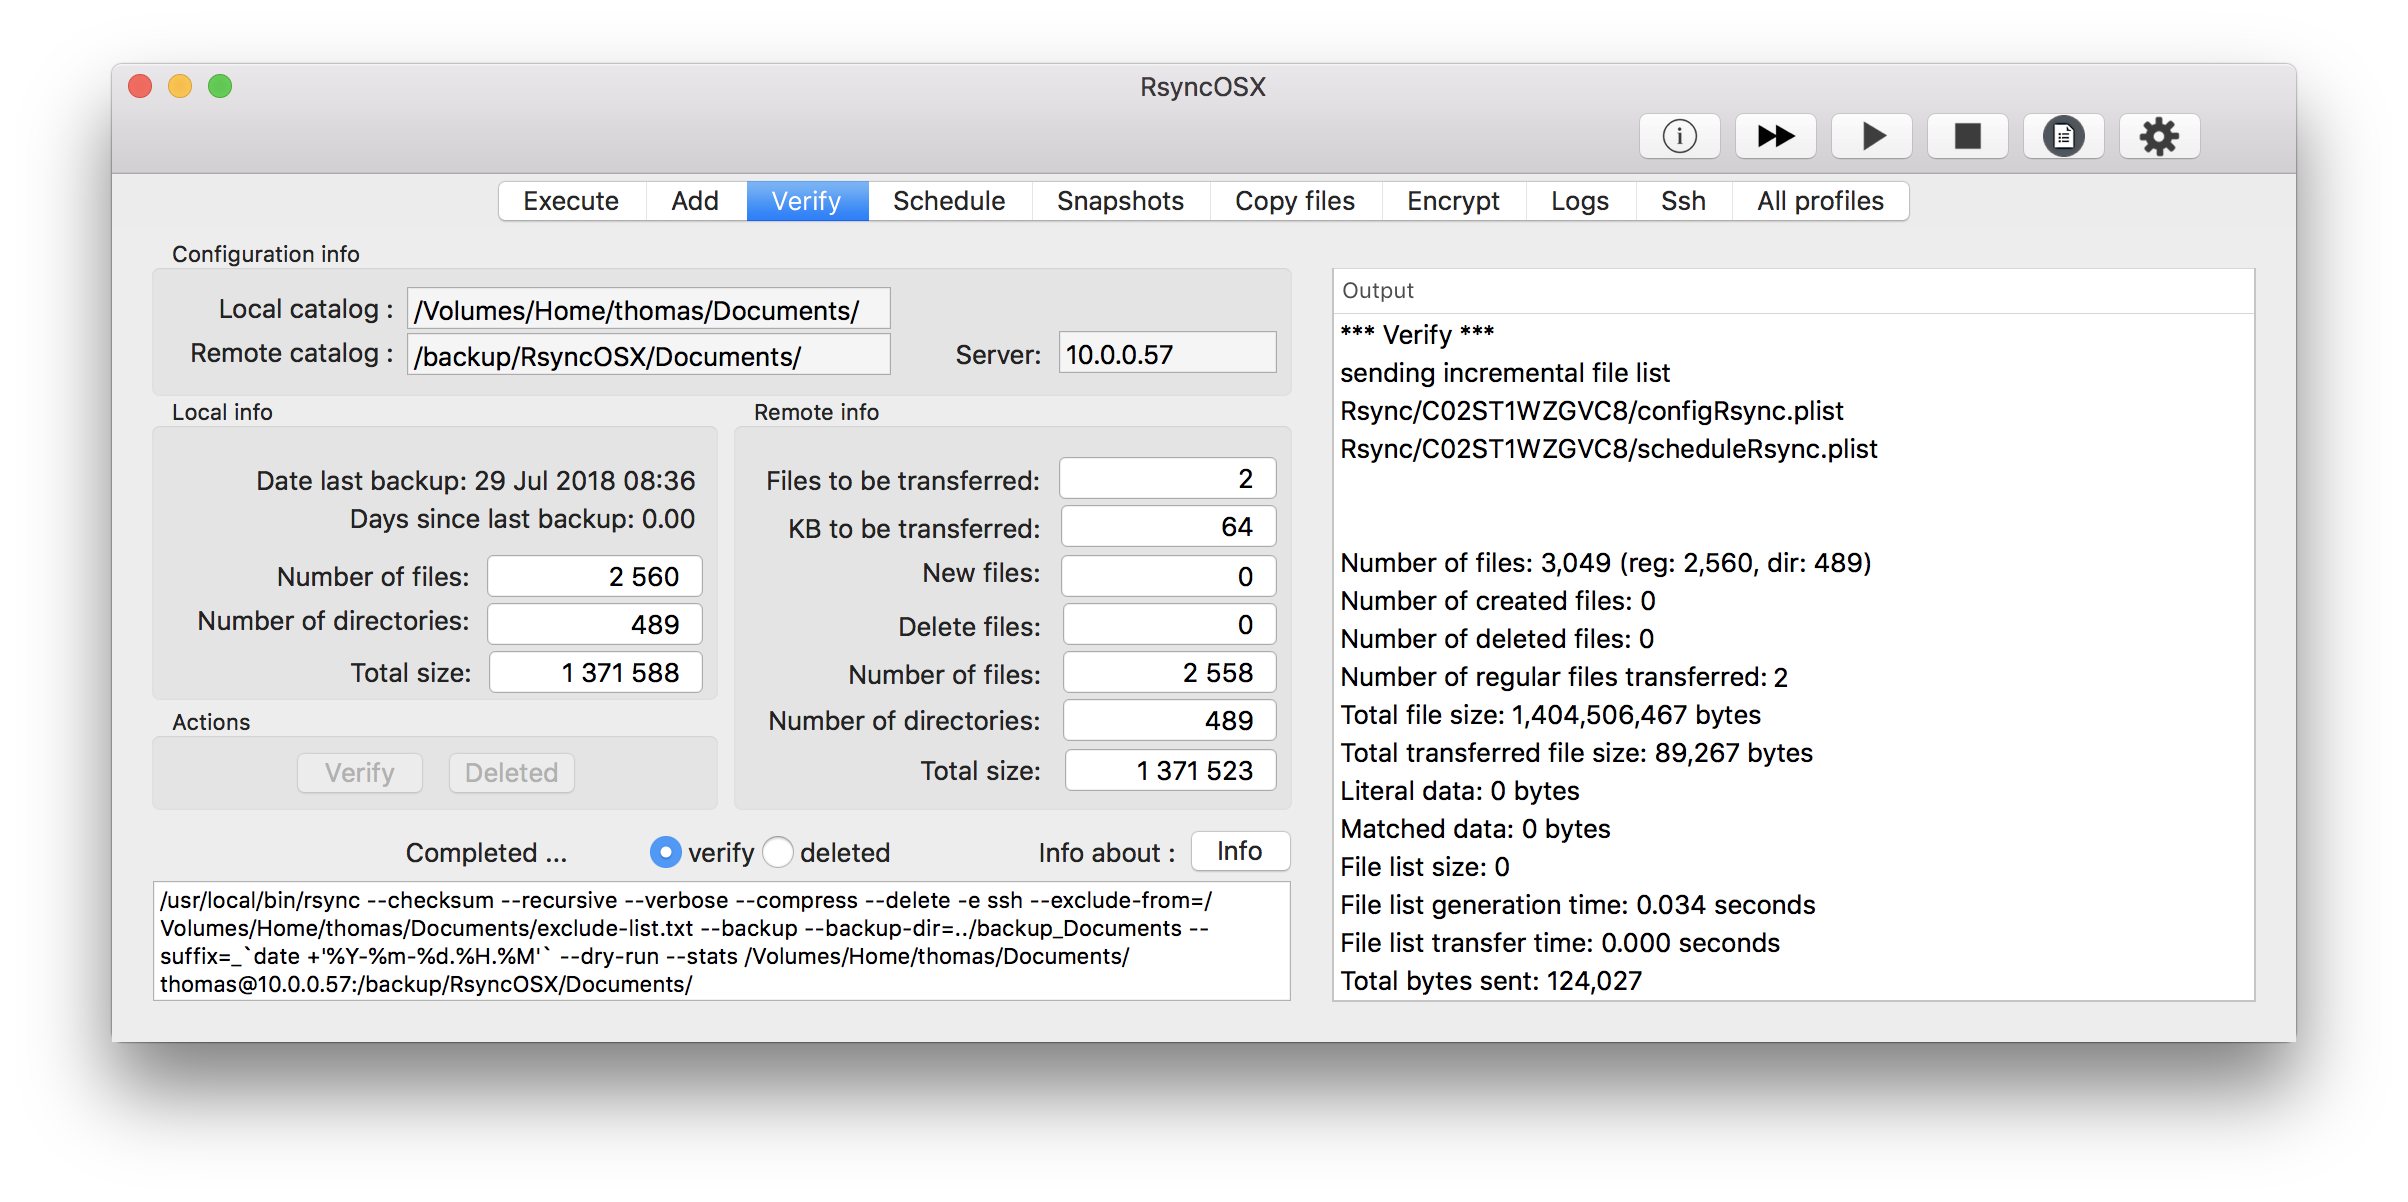
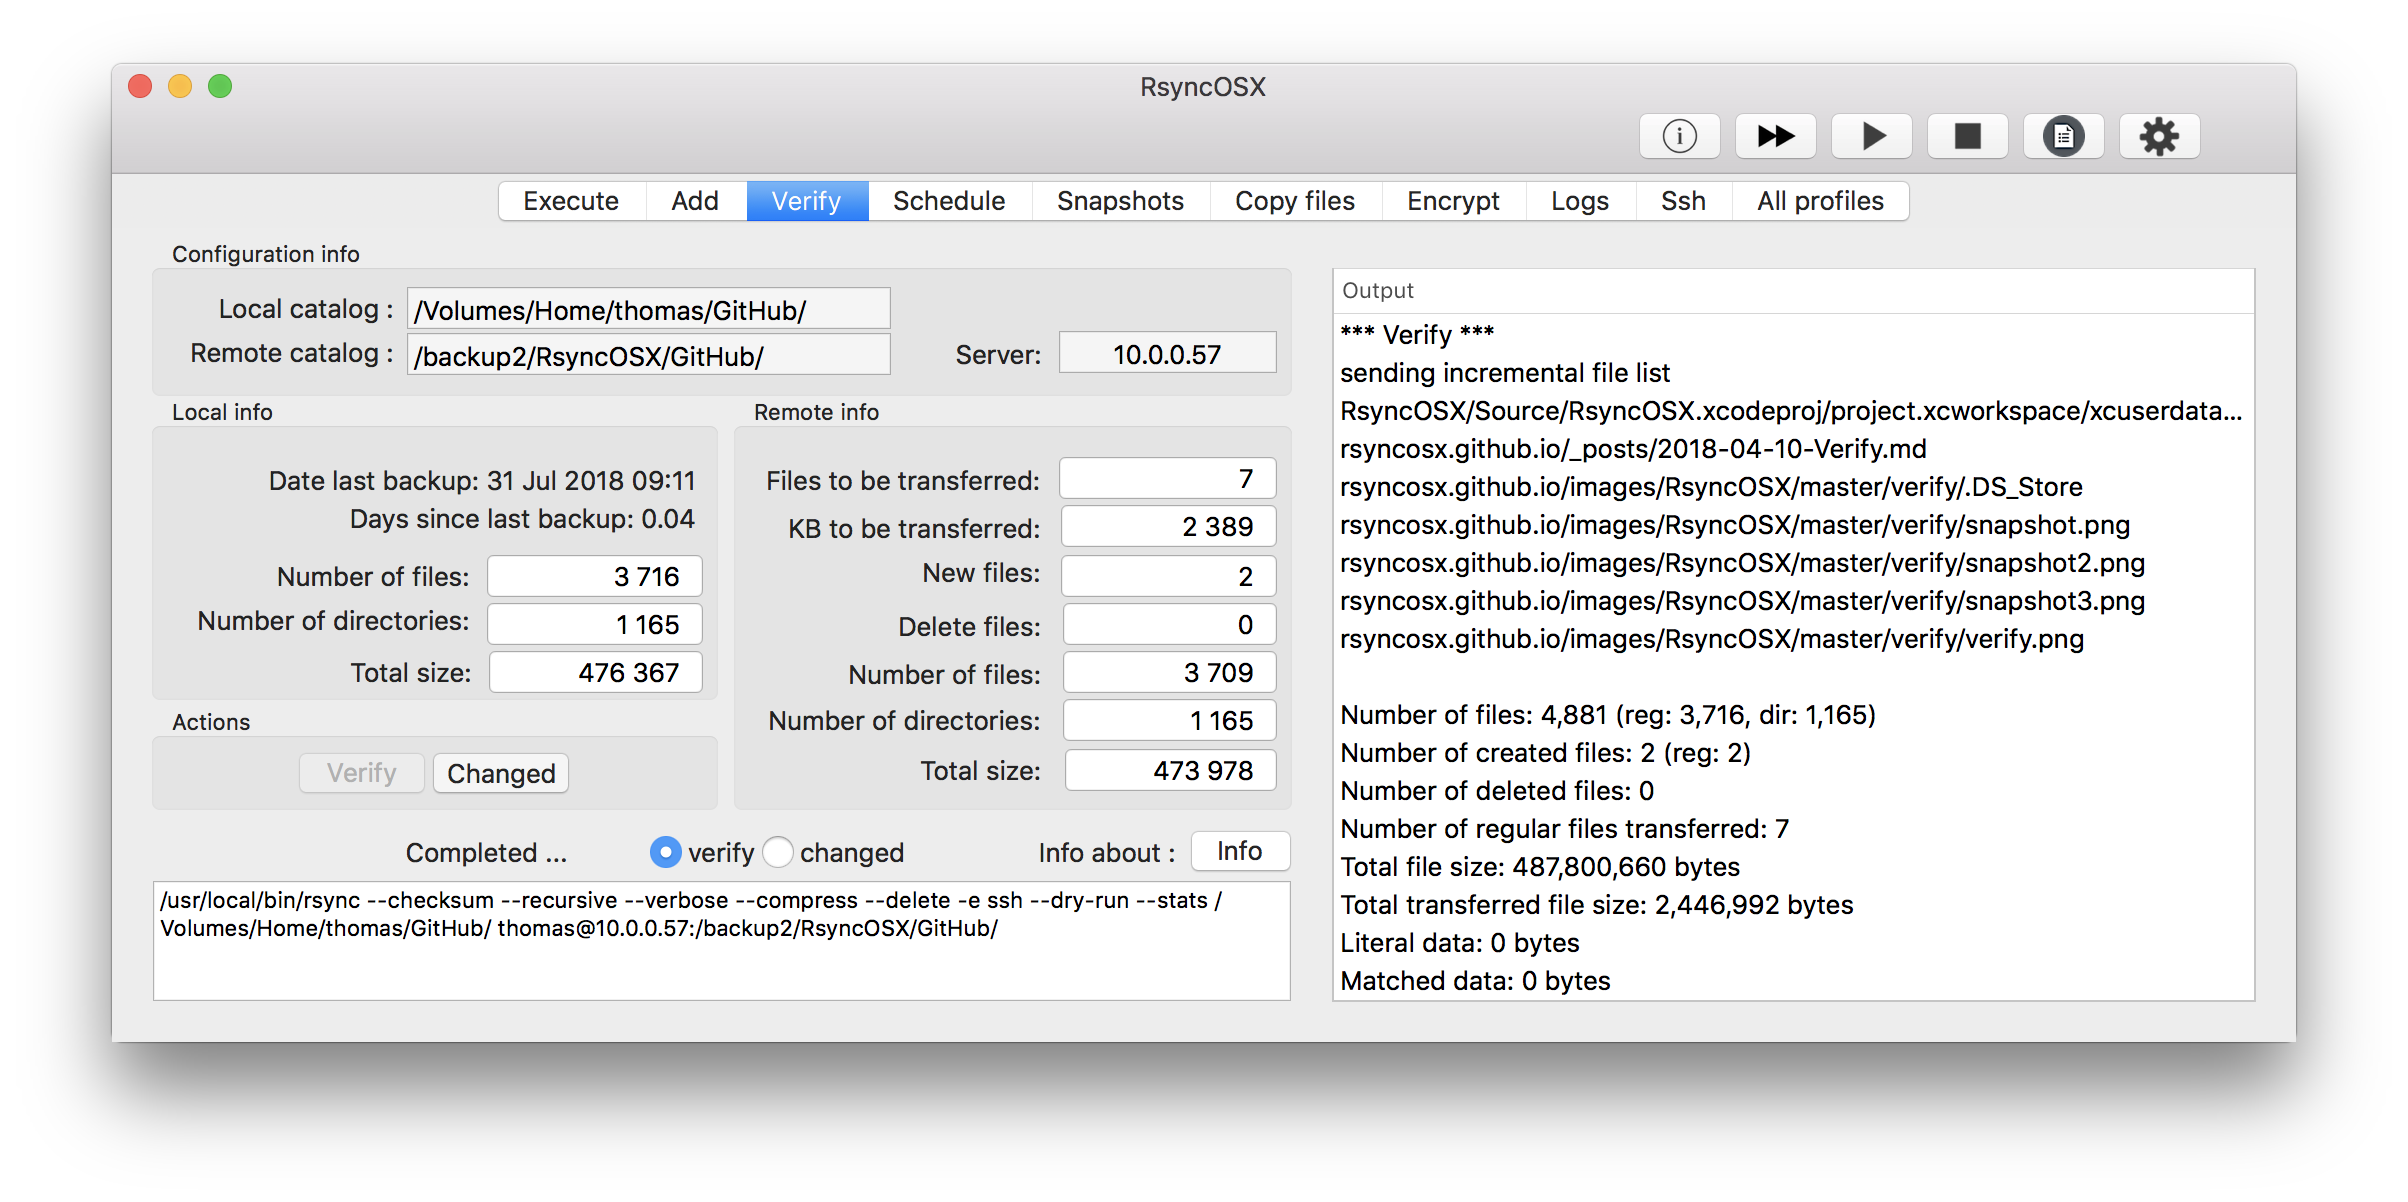
updates

diff --git a/_posts/2018-04-10-Verify.md b/_posts/2018-04-10-Verify.md
@@ -19,16 +19,23 @@ result self and take required actions.
 
 The `Verify` button kicks off the `--checksum` process. The output is appended and refreshed every time rsync output a new line.
 
-The `Deleted` button kicks of a `--dry-run` restore task. Changed and deleted files in source compared to last synchronizing or snapshot task are listed. This process is utilizing the `--archive` parameter. For both functions the corresponding rsync command is presented.
+The `Changed` button kicks of a `--dry-run` restore task. Changed and deleted files in source compared to last synchronizing or snapshot task are listed. This process is utilizing the `--archive` parameter. For both functions the corresponding rsync command is presented.
 
 If the **verify** finds files not synchronized a `touch` command on file will update timestamp on file and next synchronize task will copy missing files.
 
-Below is sample of verify for **standard** synchronizing task. There are three files with not equal checksums.
+Below is sample of verify for **standard** synchronizing task. Seven files are verified as not equal. The seven files are also identified by the normal backup task.
 
 ![](/images/RsyncOSX/master/verify/verify.png)
+![](/images/RsyncOSX/master/verify/verify2.png)
 
-Below is sample of verify for **snapshot** synchronizing task. The output from rsync informs about a catalog `..snapshots/GitHub/72` is created. This is because the snapshot number 72 is no yet created in backup storage. The number is next snapshot in sequence and will by RsyncOSX automatically be created in next synchronizing.
+
+Below is sample of verify for **snapshot** synchronizing task. The source and backup is identical.
 
 ![](/images/RsyncOSX/master/verify/snapshot.png)
 
 A verify is probably best to to do after a synchronizing is completed. If there are any files which checksums are not equal, rsync list those files. In the view above all checksums are equal and backup is verified equal to source.
+
+For snapshot tasks the synchronize and verify rsync command is slightly different.
+
+![](/images/RsyncOSX/master/verify/snapshot2.png)
+![](/images/RsyncOSX/master/verify/snapshot3.png)

diff --git a/_posts/2018-04-10-Changelog.md b/_posts/2018-04-10-Changelog.md
@@ -7,7 +7,10 @@ I am using the application on a daily basis and it evolves during my own use. Su
 
 ## Version 5.4.0 release candidate
 
-Released 30 July 2018
+Updated 31 July 2018.
+
+- renamed function to `Changed`
+- fixed verify for snapshot tasks
 
 See [verify](/Verify).
 
